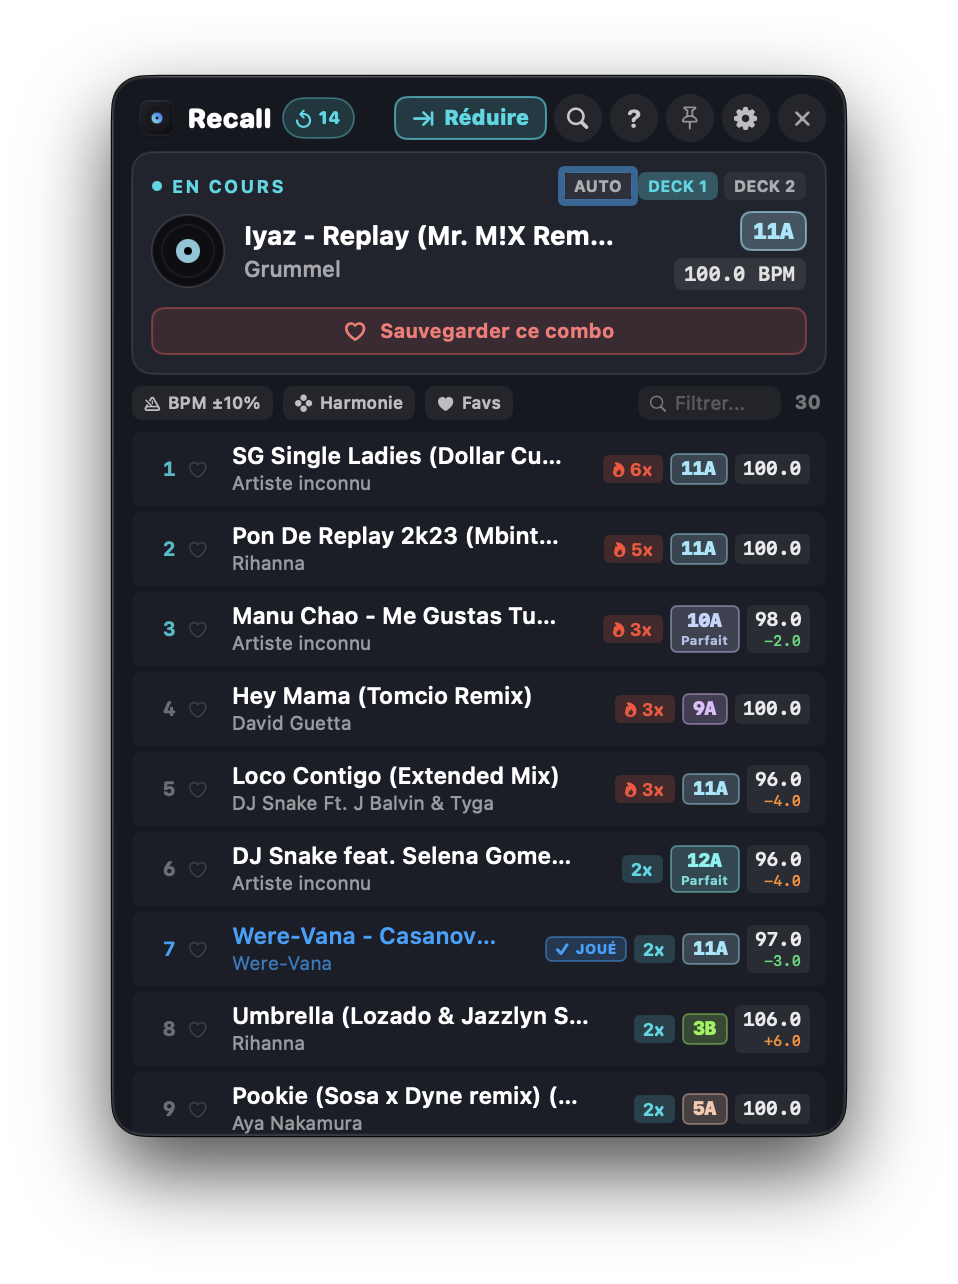
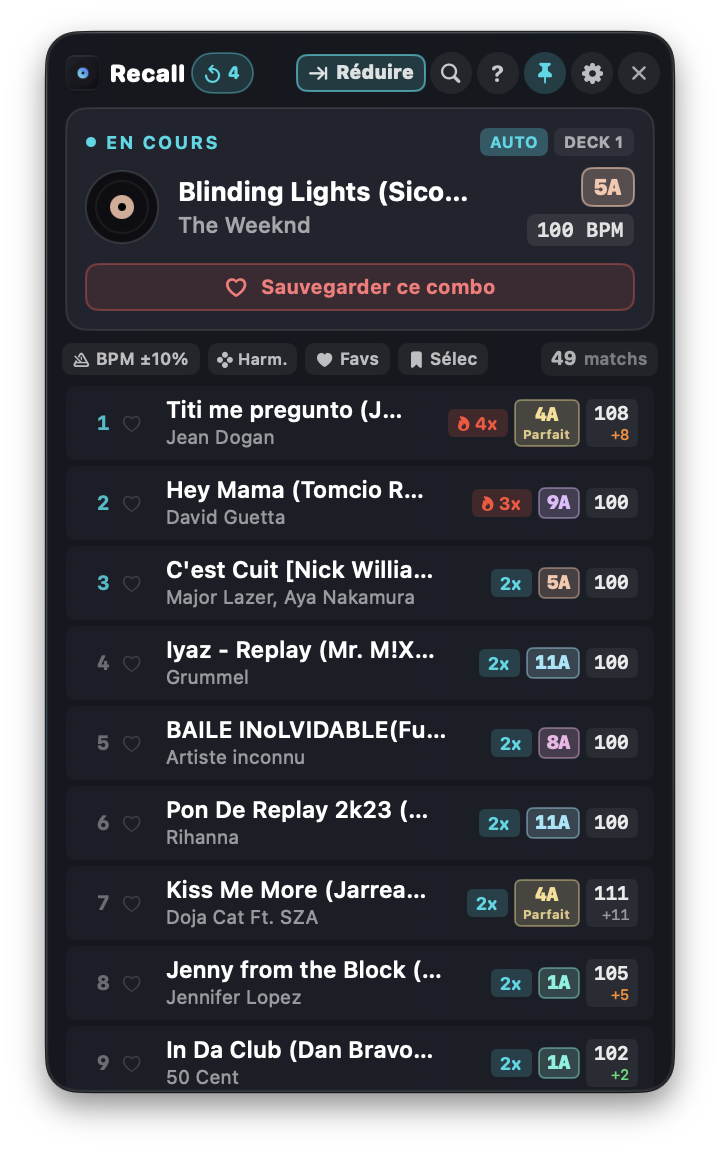
feat(social): mettre à jour l'image de partage Open Graph et Twitter avec l'interface actuelle de Recall

diff --git a/docs/index.html b/docs/index.html
@@ -12,13 +12,17 @@
   <meta property="og:url" content="https://revrmusic.github.io/recall/">
   <meta property="og:title" content="Recall — Le Copilote Intelligent Hors-Ligne pour DJs Serato & Rekordbox">
   <meta property="og:description" content="Rallumez vos meilleures transitions historiques en plein set sans latence ni connexion Internet.">
-  <meta property="og:image" content="assets/images/recall-main.png">
+  <meta property="og:image" content="https://revrmusic.github.io/recall/assets/images/recall-main.png">
+  <meta property="og:image:secure_url" content="https://revrmusic.github.io/recall/assets/images/recall-main.png">
+  <meta property="og:image:type" content="image/png">
+  <meta property="og:image:width" content="720">
+  <meta property="og:image:height" content="1152">
 
   <!-- Twitter -->
   <meta name="twitter:card" content="summary_large_image">
   <meta name="twitter:title" content="Recall — Compagnon DJ Indépendant Serato & Rekordbox">
   <meta name="twitter:description" content="Mining de routines historiques & mixage harmonique Camelot en direct. 100% hors-ligne.">
-  <meta name="twitter:image" content="assets/images/recall-main.png">
+  <meta name="twitter:image" content="https://revrmusic.github.io/recall/assets/images/recall-main.png">
 
   <!-- Favicon -->
   <link rel="icon" type="image/png" href="assets/images/app-icon.png">
